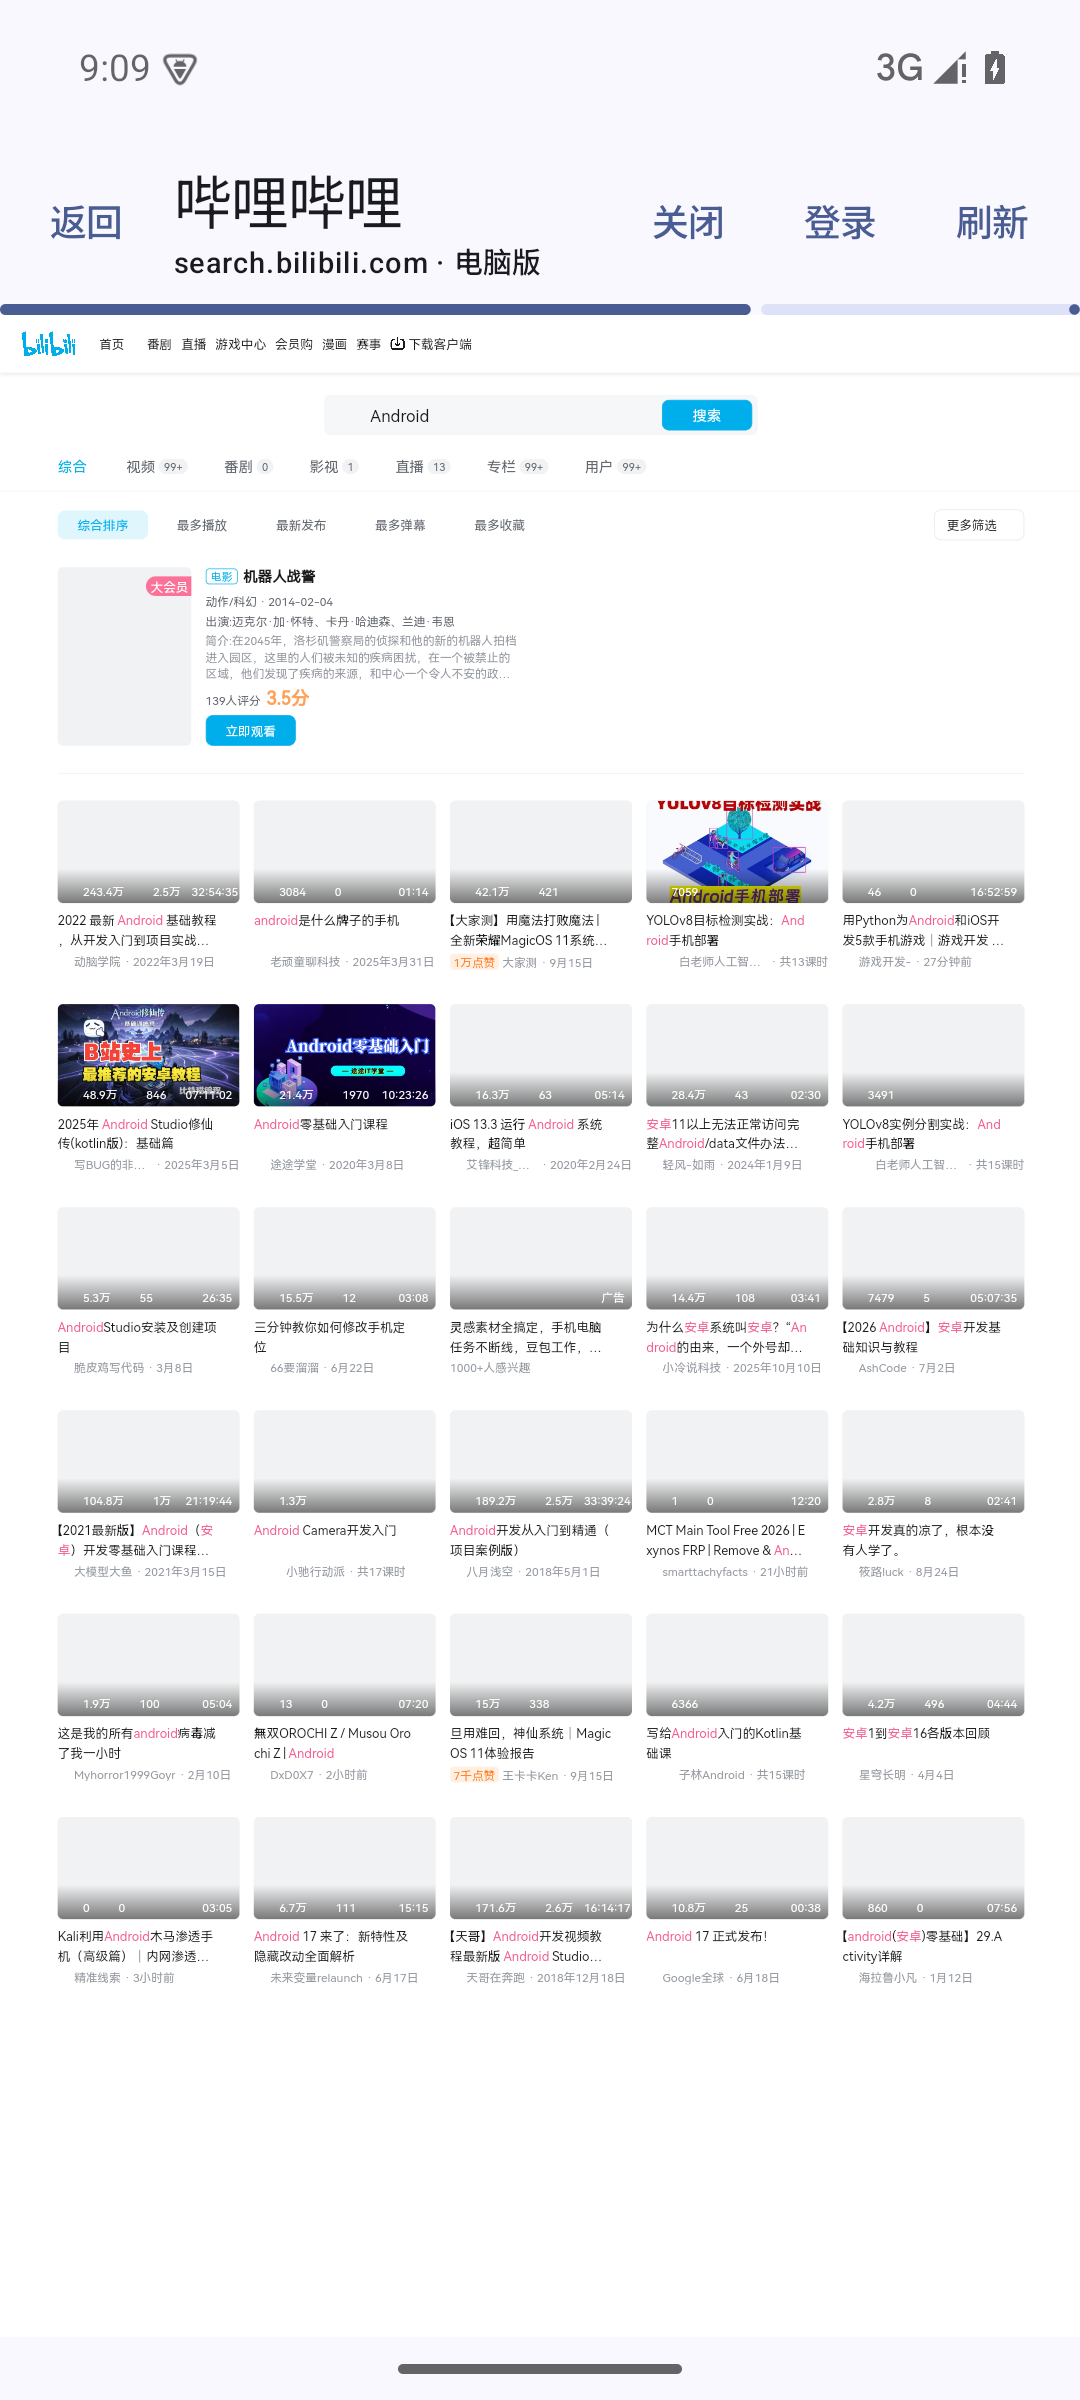
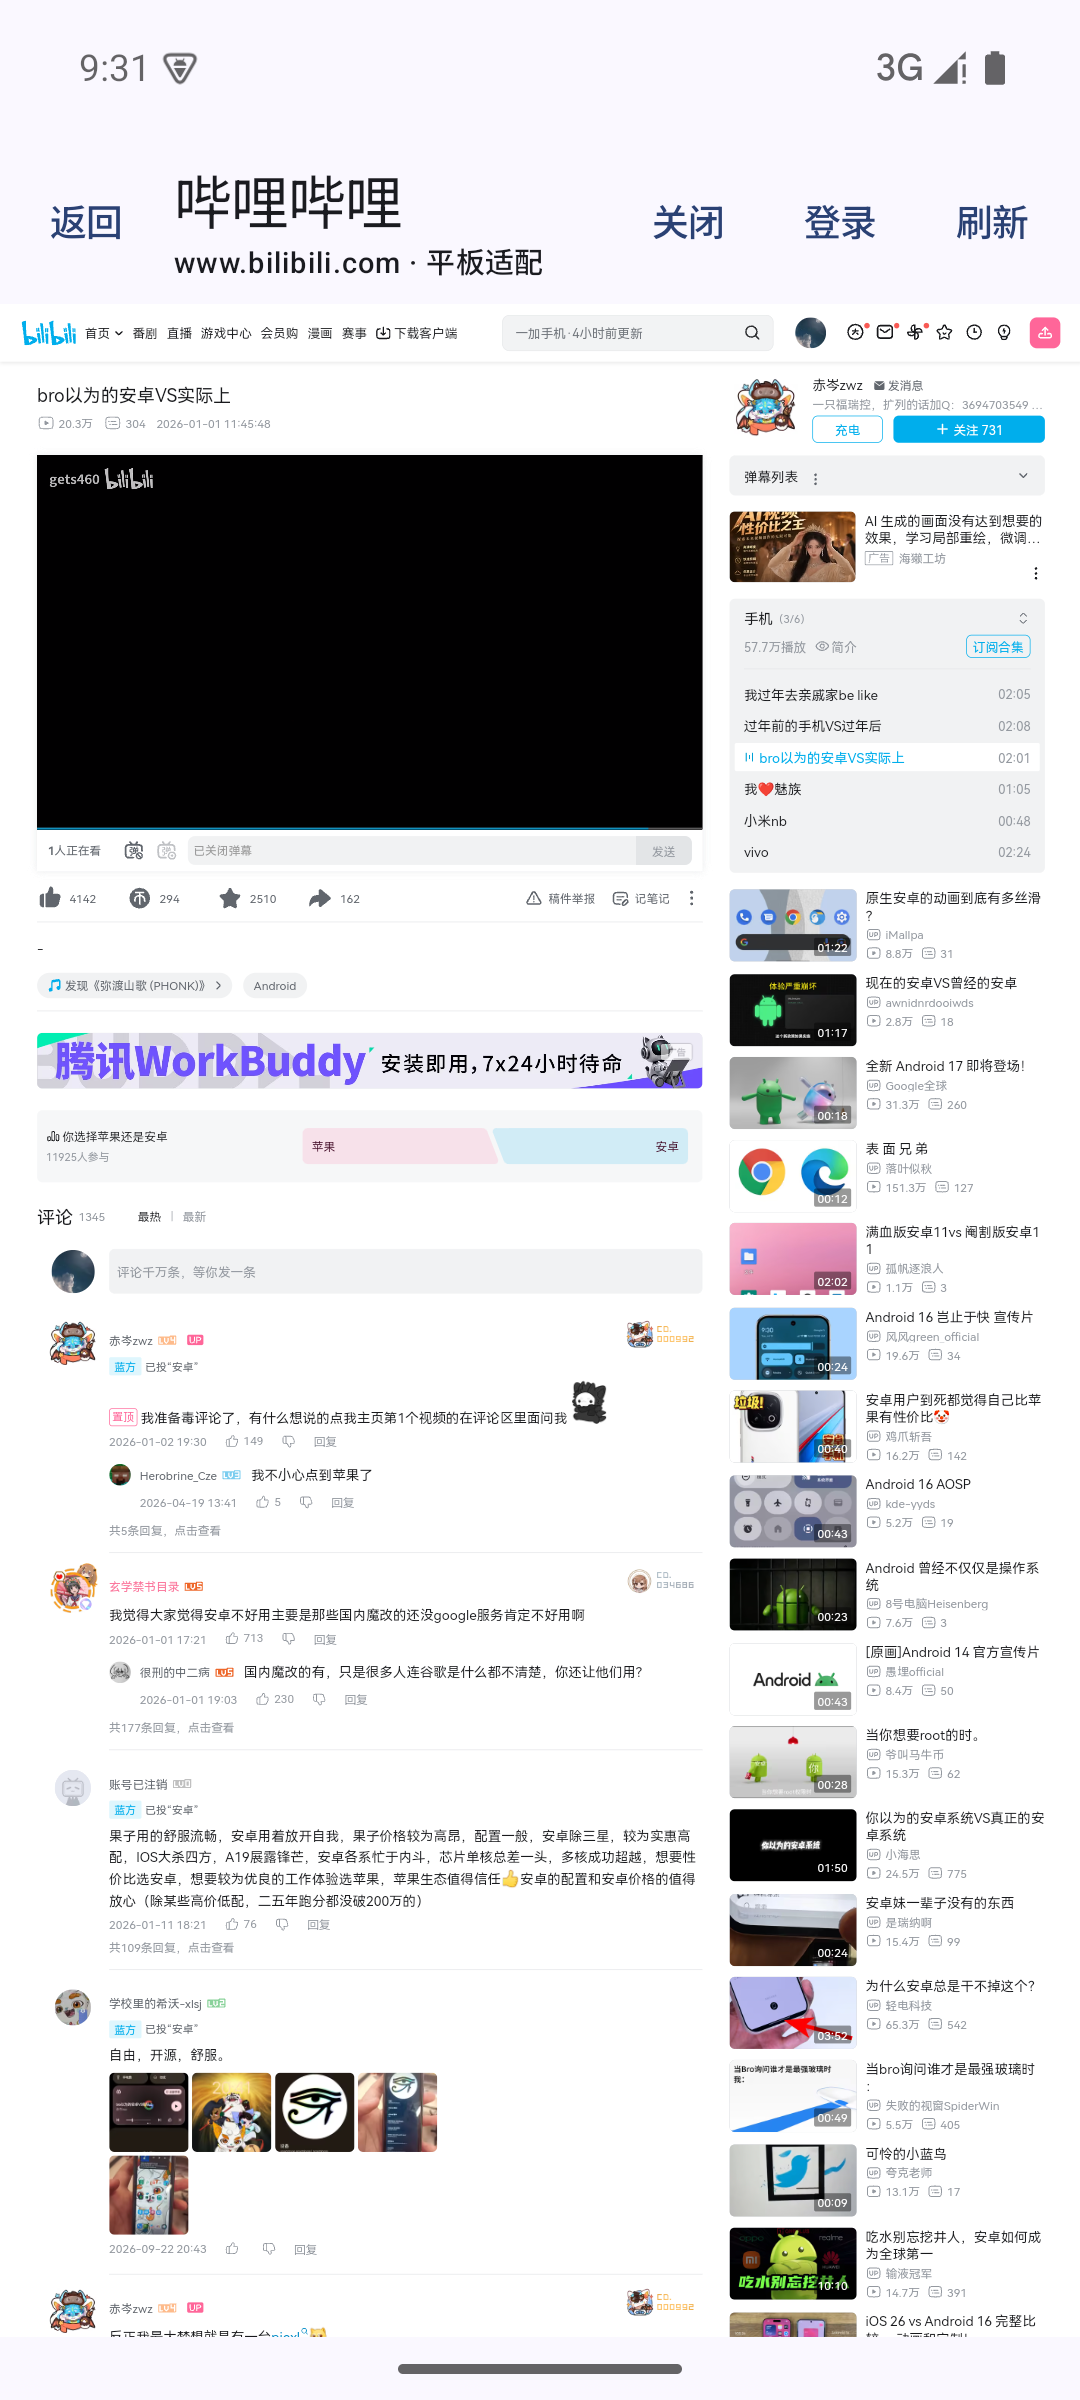
Adapt desktop pages to phone and tablet layouts

diff --git a/app/src/main/java/dev/mediasearch/ui/PlatformBrowser.kt b/app/src/main/java/dev/mediasearch/ui/PlatformBrowser.kt
@@ -29,16 +29,16 @@ import kotlinx.coroutines.*
 fun PlatformBrowser(platform: Platform, initialUrl: String, login: Boolean, model: SearchViewModel,
                     onClose: () -> Unit, onVerified: () -> Unit) {
     val preferences = LocalThemePreferences.current
-    // Login keeps the platform-tested profile; the setting changes readable content pages only.
-    val desktop = if (login) BrowserProfile.desktop(platform) else preferences.desktopWebPages
+    // Login keeps the platform-tested profile; the setting changes the content page viewport only.
+    val wideLayout = if (login) BrowserProfile.desktop(platform) else preferences.desktopWebPages
     var webView by remember { mutableStateOf<WebView?>(null) }
     var progress by remember { mutableFloatStateOf(0f) }
-    val pageUrl = remember(platform, initialUrl, desktop) { BrowserProfile.visiblePageUrl(platform, initialUrl, desktop) }
+    val pageUrl = remember(platform, initialUrl) { BrowserProfile.visiblePageUrl(platform, initialUrl, wideLayout) }
     var host by remember { mutableStateOf(Uri.parse(pageUrl).host.orEmpty()) }
     var error by remember { mutableStateOf<String?>(null) }
-    var loginMessage by remember { mutableStateOf(if (desktop) "请使用已有账号的手机号或密码登录；可双指缩放页面" else "请使用已有账号，在平台官方页面登录") }
+    var loginMessage by remember { mutableStateOf(if (BrowserProfile.desktop(platform)) "请使用已有账号的手机号或密码登录；可双指缩放页面" else "请使用已有账号，在平台官方页面登录") }
     var pageFinished by remember { mutableIntStateOf(0) }
-    var loginRequested by remember { mutableStateOf(login && desktop) }
+    var loginRequested by remember { mutableStateOf(login && BrowserProfile.desktop(platform)) }
     val scope = rememberCoroutineScope()
     val currentOnVerified by rememberUpdatedState(onVerified)
 
@@ -96,7 +96,7 @@ fun PlatformBrowser(platform: Platform, initialUrl: String, login: Boolean, mode
                     loginMessage = "已登录"
                     if (login) { delay(500); currentOnVerified(); break }
                 } else {
-                    if (pageAuth == false && (login || desktop)) model.sessions.mark(platform, SessionStatus.MISSING)
+                    if (pageAuth == false && (login || wideLayout)) model.sessions.mark(platform, SessionStatus.MISSING)
                     loginMessage = if (platform == Platform.DOUYIN && captured) "会话已保存，可关闭页面后尝试搜索；登录状态尚待确认" else "请在官方页面完成登录"
                 }
             } catch (e: TimeoutCancellationException) {
@@ -111,13 +111,13 @@ fun PlatformBrowser(platform: Platform, initialUrl: String, login: Boolean, mode
         topBar = {
             TopAppBar(title = { Column {
                 Text(if (login) "登录${platform.label}" else platform.label, maxLines = 1, overflow = TextOverflow.Ellipsis)
-                Text("$host · ${if (desktop) "电脑版" else "移动版"}", style = MaterialTheme.typography.labelSmall,
+                Text("$host · ${if (login) "官方登录" else if (wideLayout) "平板适配" else "手机适配"}", style = MaterialTheme.typography.labelSmall,
                     maxLines = 1, overflow = TextOverflow.Ellipsis)
             } },
                 navigationIcon = { TextButton(onClick = { back() }) { Text("返回") } },
                 actions = {
                     TextButton(onClick = { finish() }) { Text("关闭") }
-                    if (desktop) TextButton(onClick = { loginRequested = true }) { Text("登录") }
+                    if (BrowserProfile.desktop(platform)) TextButton(onClick = { loginRequested = true }) { Text("登录") }
                     TextButton(onClick = { error = null; webView?.reload() }) { Text("刷新") }
                 })
         }
@@ -140,20 +140,28 @@ fun PlatformBrowser(platform: Platform, initialUrl: String, login: Boolean, mode
                     webView = this
                     settings.javaScriptEnabled = true
                     settings.domStorageEnabled = true
-                    settings.userAgentString = BrowserProfile.visibleUserAgent(WebSettings.getDefaultUserAgent(context), desktop)
+                    val defaultUserAgent = WebSettings.getDefaultUserAgent(context)
+                    settings.userAgentString = if (login) BrowserProfile.userAgent(platform, defaultUserAgent)
+                        else BrowserProfile.visibleUserAgent(defaultUserAgent, wideLayout)
                     settings.useWideViewPort = true
-                    settings.loadWithOverviewMode = desktop
+                    settings.loadWithOverviewMode = wideLayout
                     settings.setSupportZoom(true)
                     settings.builtInZoomControls = true
                     settings.displayZoomControls = false
-                    settings.textZoom = 100
-                    val viewportScript = if (desktop) context.assets.open("browser/desktop-viewport.js").bufferedReader().use { it.readText() } else null
+                    settings.textZoom = if (wideLayout) 100 else 115
+                    val viewportAsset = if (wideLayout) "browser/desktop-viewport.js" else "browser/phone-viewport.js"
+                    val viewportScript = context.assets.open(viewportAsset).bufferedReader().use { it.readText() }
                     val startScriptSupported = WebViewFeature.isFeatureSupported(WebViewFeature.DOCUMENT_START_SCRIPT)
                     if (viewportScript != null && startScriptSupported) {
-                        val root = when (platform) { Platform.BILIBILI -> "bilibili.com"; Platform.DOUYIN -> "douyin.com"; else -> "xiaohongshu.com" }
+                        val root = when (platform) {
+                            Platform.BILIBILI -> "bilibili.com"
+                            Platform.ZHIHU -> "zhihu.com"
+                            Platform.XHS -> "xiaohongshu.com"
+                            Platform.DOUYIN -> "douyin.com"
+                        }
                         WebViewCompat.addDocumentStartJavaScript(this, viewportScript, setOf("https://$root", "https://*.$root"))
                     }
-                    if (desktop && WebViewFeature.isFeatureSupported(WebViewFeature.USER_AGENT_METADATA)) {
+                    if ((!login || BrowserProfile.desktop(platform)) && WebViewFeature.isFeatureSupported(WebViewFeature.USER_AGENT_METADATA)) {
                         // Keep Chromium's installed version while requesting the desktop presentation.
                         val version = Regex("Chrome/([0-9.]+)").find(settings.userAgentString)?.groupValues?.get(1)
                         val metadata = UserAgentMetadata.Builder()
@@ -184,7 +192,7 @@ fun PlatformBrowser(platform: Platform, initialUrl: String, login: Boolean, mode
                             // Embedded HTTPS authentication frames use the browser's normal origin isolation.
                             // Only top-level navigation is restricted to this platform; there is no native bridge.
                             if (!request.isForMainFrame) return request.url.scheme != "https"
-                            val targetUrl = BrowserProfile.secureVisibleNavigationUrl(platform, request.url.toString(), desktop)
+                            val targetUrl = BrowserProfile.secureVisibleNavigationUrl(platform, request.url.toString(), wideLayout)
                             if (targetUrl == null) {
                                 if (dev.mediasearch.BuildConfig.DEBUG) android.util.Log.d("PageNavigation", "blocked ${request.url.scheme}://${request.url.host}${request.url.path}")
                                 if (request.isForMainFrame) error = "该链接无法在此页面打开，请返回继续浏览"

diff --git a/app/src/test/java/dev/mediasearch/core/BrowserProfileTest.kt b/app/src/test/java/dev/mediasearch/core/BrowserProfileTest.kt
@@ -29,20 +29,20 @@ class BrowserProfileTest {
         assertEquals(passport, BrowserProfile.pageUrl(Platform.BILIBILI, passport))
     }
 
-    @Test fun `visible mobile pages keep Android identity and Bili video context`() {
-        assertEquals(mobile, BrowserProfile.visibleUserAgent(mobile, desktop = false))
+    @Test fun `phone layout keeps desktop identity and official Bili context`() {
+        assertTrue("X11; Linux x86_64" in BrowserProfile.visibleUserAgent(mobile, desktop = false))
         assertTrue("X11; Linux x86_64" in BrowserProfile.visibleUserAgent(mobile, desktop = true))
         val video = "https://www.bilibili.com/video/BV123?p=2&keyword=%E7%8C%AB#reply"
-        assertEquals("https://m.bilibili.com/video/BV123?p=2&keyword=%E7%8C%AB#reply",
+        assertEquals(video,
             BrowserProfile.visiblePageUrl(Platform.BILIBILI, video, desktop = false))
         assertEquals(video, BrowserProfile.visiblePageUrl(Platform.BILIBILI, video, desktop = true))
-        assertEquals("https://m.bilibili.com/", BrowserProfile.visiblePageUrl(Platform.BILIBILI, Platform.BILIBILI.homeUrl, desktop = false))
+        assertEquals("https://www.bilibili.com", BrowserProfile.visiblePageUrl(Platform.BILIBILI, Platform.BILIBILI.homeUrl, desktop = false))
         assertEquals("https://passport.bilibili.com/login",
             BrowserProfile.visiblePageUrl(Platform.BILIBILI, "https://passport.bilibili.com/login", desktop = false))
     }
 
     @Test fun `mobile navigation still upgrades HTTPS and rejects foreign hosts`() {
-        assertEquals("https://m.bilibili.com/video/BV123?p=2",
+        assertEquals("https://www.bilibili.com/video/BV123?p=2",
             BrowserProfile.secureVisibleNavigationUrl(Platform.BILIBILI, "http://www.bilibili.com/video/BV123?p=2", desktop = false))
         assertNull(BrowserProfile.secureVisibleNavigationUrl(Platform.BILIBILI, "https://bilibili.com.evil.test/video/BV123", desktop = false))
     }

diff --git a/app/src/main/java/dev/mediasearch/core/BrowserProfile.kt b/app/src/main/java/dev/mediasearch/core/BrowserProfile.kt
@@ -14,24 +14,11 @@ object BrowserProfile {
     fun userAgent(platform: Platform, default: String): String =
         if (desktop(platform)) desktopUserAgent(default) else default
 
-    fun visibleUserAgent(default: String, desktop: Boolean): String =
-        if (desktop) desktopUserAgent(default) else default
+    /** Content pages always request the desktop site; the preference only changes its viewport. */
+    fun visibleUserAgent(default: String, desktop: Boolean): String = desktopUserAgent(default)
 
     /** Layout choice for visible content pages only; crawler requests retain their known profile. */
-    fun visiblePageUrl(platform: Platform, url: String, desktop: Boolean): String {
-        if (desktop) return pageUrl(platform, url)
-        if (!allowed(platform, url)) return url
-        val uri = URI(url)
-        val path = uri.rawPath.orEmpty().ifEmpty { "/" }
-        return when {
-            platform == Platform.BILIBILI && uri.host in setOf("www.bilibili.com", "bilibili.com") &&
-                (path == "/" || path.startsWith("/video/")) ->
-                "https://m.bilibili.com" + path +
-                    uri.rawQuery?.let { "?$it" }.orEmpty() + uri.rawFragment?.let { "#$it" }.orEmpty()
-            platform == Platform.XHS && path == "/" -> "https://www.xiaohongshu.com/explore"
-            else -> url
-        }
-    }
+    fun visiblePageUrl(platform: Platform, url: String, desktop: Boolean): String = pageUrl(platform, url)
 
     fun secureVisibleNavigationUrl(platform: Platform, url: String, desktop: Boolean): String? {
         val secure = if (url.startsWith("http://", ignoreCase = true)) "https://" + url.substring(7) else url

diff --git a/app/src/main/java/dev/mediasearch/ui/SettingsScreen.kt b/app/src/main/java/dev/mediasearch/ui/SettingsScreen.kt
@@ -94,18 +94,18 @@ fun SettingsScreen(onOpenAbout: () -> Unit, modifier: Modifier = Modifier, onDia
             ) {
                 Column(Modifier.padding(18.dp), verticalArrangement = Arrangement.spacedBy(8.dp)) {
                     Text("官方网页版本", style = MaterialTheme.typography.titleMedium)
-                    Text("手机默认移动网页，平板默认电脑网页。仅影响打开的内容网页；登录和搜索取数沿用兼容路线。",
+                    Text("两种模式都打开官方电脑网页；手机模式按屏幕宽度和较大字号适配，平板模式保留更宽布局。登录和搜索取数沿用兼容路线。",
                         color = MaterialTheme.colorScheme.onSurfaceVariant, style = MaterialTheme.typography.bodySmall)
                     Row(horizontalArrangement = Arrangement.spacedBy(8.dp)) {
                         androidx.compose.material3.FilterChip(
                             selected = !preferences.desktopWebPages,
                             onClick = { preferences.useDesktopWebPages(false) },
-                            label = { Text("移动网页") }
+                            label = { Text("手机页面") }
                         )
                         androidx.compose.material3.FilterChip(
                             selected = preferences.desktopWebPages,
                             onClick = { preferences.useDesktopWebPages(true) },
-                            label = { Text("电脑网页") }
+                            label = { Text("平板页面") }
                         )
                     }
                 }

diff --git a/app/src/main/assets/browser/phone-viewport.js b/app/src/main/assets/browser/phone-viewport.js
@@ -1,0 +1,33 @@
+// Desktop site in a phone-sized viewport. Never access form values, cookies, or native bridges.
+(() => {
+  if (window !== window.top || window.__openScopePhoneViewport) return;
+  window.__openScopePhoneViewport = true;
+  const content = 'width=device-width, initial-scale=1, user-scalable=yes';
+  const apply = () => {
+    const head = document.head;
+    if (!head) return;
+    let metas = head.querySelectorAll('meta[name="viewport"]');
+    if (!metas.length) {
+      const meta = document.createElement('meta');
+      meta.name = 'viewport';
+      meta.content = content;
+      head.appendChild(meta);
+      return;
+    }
+    metas.forEach(meta => { if (meta.content !== content) meta.content = content; });
+  };
+  const watchHead = () => {
+    if (!document.head) return false;
+    new MutationObserver(apply).observe(document.head, {
+      childList: true, subtree: true, attributes: true, attributeFilter: ['content']
+    });
+    apply();
+    return true;
+  };
+  if (!watchHead()) {
+    const waitForHead = new MutationObserver(() => {
+      if (watchHead()) waitForHead.disconnect();
+    });
+    waitForHead.observe(document, { childList: true, subtree: true });
+  }
+})();

diff --git a/README.md b/README.md
@@ -1,6 +1,6 @@
 # OpenScope
 
-> 0.4.4 已发布。下一版 0.4.5 正在加入移动网页 / 电脑网页设置；手机默认移动网页，平板默认电脑网页，登录和搜索取数保持兼容路线。见 [0.4.5 验收](docs/release-0.4.5.md)。
+> 0.4.4 已发布。下一版 0.4.5 将官方电脑网页按手机或平板屏幕适配，保留完整网页功能。见 [0.4.5 验收](docs/release-0.4.5.md)。
 
 **面向 Android 的多平台内容搜索客户端。**输入一个关键词，可聚合浏览 Bilibili、知乎和小红书的公开内容；抖音作为可选实验来源。
 
@@ -20,7 +20,7 @@
 - 结果卡片显示可取得的封面、时间、播放量、点赞、收藏和评论数据；平台未提供的字段会留空。
 - 本地内容库支持收藏、稍后再看、历史记录、筛选、排序和数据备份。
 - Material You 界面，支持调整主题色。
-- 官方内容网页可切换移动版与电脑版；手机默认移动版，平板默认电脑版。
+- 官方内容网页可切换手机页面与平板页面；两种模式都使用电脑网页功能，手机模式按屏幕宽度和较大字号适配。
 - 使用 App 内官方网页完成平台登录，会话留在本机；不需要 PC、Termux 或 root，也没有云端代抓服务。
 
 ## 下载和安装

diff --git a/ASTRA-HANDOFF.md b/ASTRA-HANDOFF.md
@@ -1,6 +1,6 @@
 # OpenScope 项目迁移交接（给 Astra）
 
-**2026-09-23 当前入口：**项目目录 `D:\OpenScope`；GitHub 仓库现名为 [metaMMY07/OpenScope](https://github.com/metaMMY07/OpenScope)，0.4.4 已发布（版本代码 8）。0.4.5 为尚未公开的本地开发版，设置可选移动网页与电脑网页；最新开发验收见 [docs/release-0.4.5.md](docs/release-0.4.5.md)。源码位于 `codex/siye-android-parity`，SiYe 功能对照见 [docs/release-0.4.0.md](docs/release-0.4.0.md)。下文保留迁移和旧版发布时的历史记录。
+**2026-09-23 当前入口：**项目目录 `D:\OpenScope`；GitHub 仓库现名为 [metaMMY07/OpenScope](https://github.com/metaMMY07/OpenScope)，0.4.4 已发布（版本代码 8）。0.4.5 为尚未公开的本地开发版，设置可选手机页面与平板页面；两种模式均打开官方电脑网页，手机模式按屏幕适配。最新开发验收见 [docs/release-0.4.5.md](docs/release-0.4.5.md)。源码位于 `codex/siye-android-parity`，SiYe 功能对照见 [docs/release-0.4.0.md](docs/release-0.4.0.md)。下文保留迁移和旧版发布时的历史记录。
 
 更新时间：2026-09-15（Asia/Taipei）
 

diff --git a/HANDOFF.md b/HANDOFF.md
@@ -1,6 +1,6 @@
 # 接手入口：OpenScope Android 0.4.5 本地开发版
 
-**2026-09-23 网页布局版：**0.4.5 使用 `versionCode=9`，设置可选移动网页或电脑网页；可见内容网页按所选布局打开，手机默认移动版、平板默认电脑版。登录与后台搜索维持兼容路径。验收见 [docs/release-0.4.5.md](docs/release-0.4.5.md)。
+**2026-09-23 网页适配版：**0.4.5 使用 `versionCode=9`，设置可选手机页面或平板页面；两种模式均打开官方电脑网页，手机模式按设备宽度与较大字号适配，平板模式保留宽布局。登录与后台搜索维持兼容路径。验收见 [docs/release-0.4.5.md](docs/release-0.4.5.md)。
 
 **2026-09-23 发布版：**0.4.4 使用 `versionCode=8`、`versionName=0.4.4`，保留 0.4.3 的功能并修复极简首页 dock、深色文字和状态栏对比度。已发布到 GitHub Release `v0.4.4`，详见 [docs/release-0.4.4.md](docs/release-0.4.4.md)。
 
